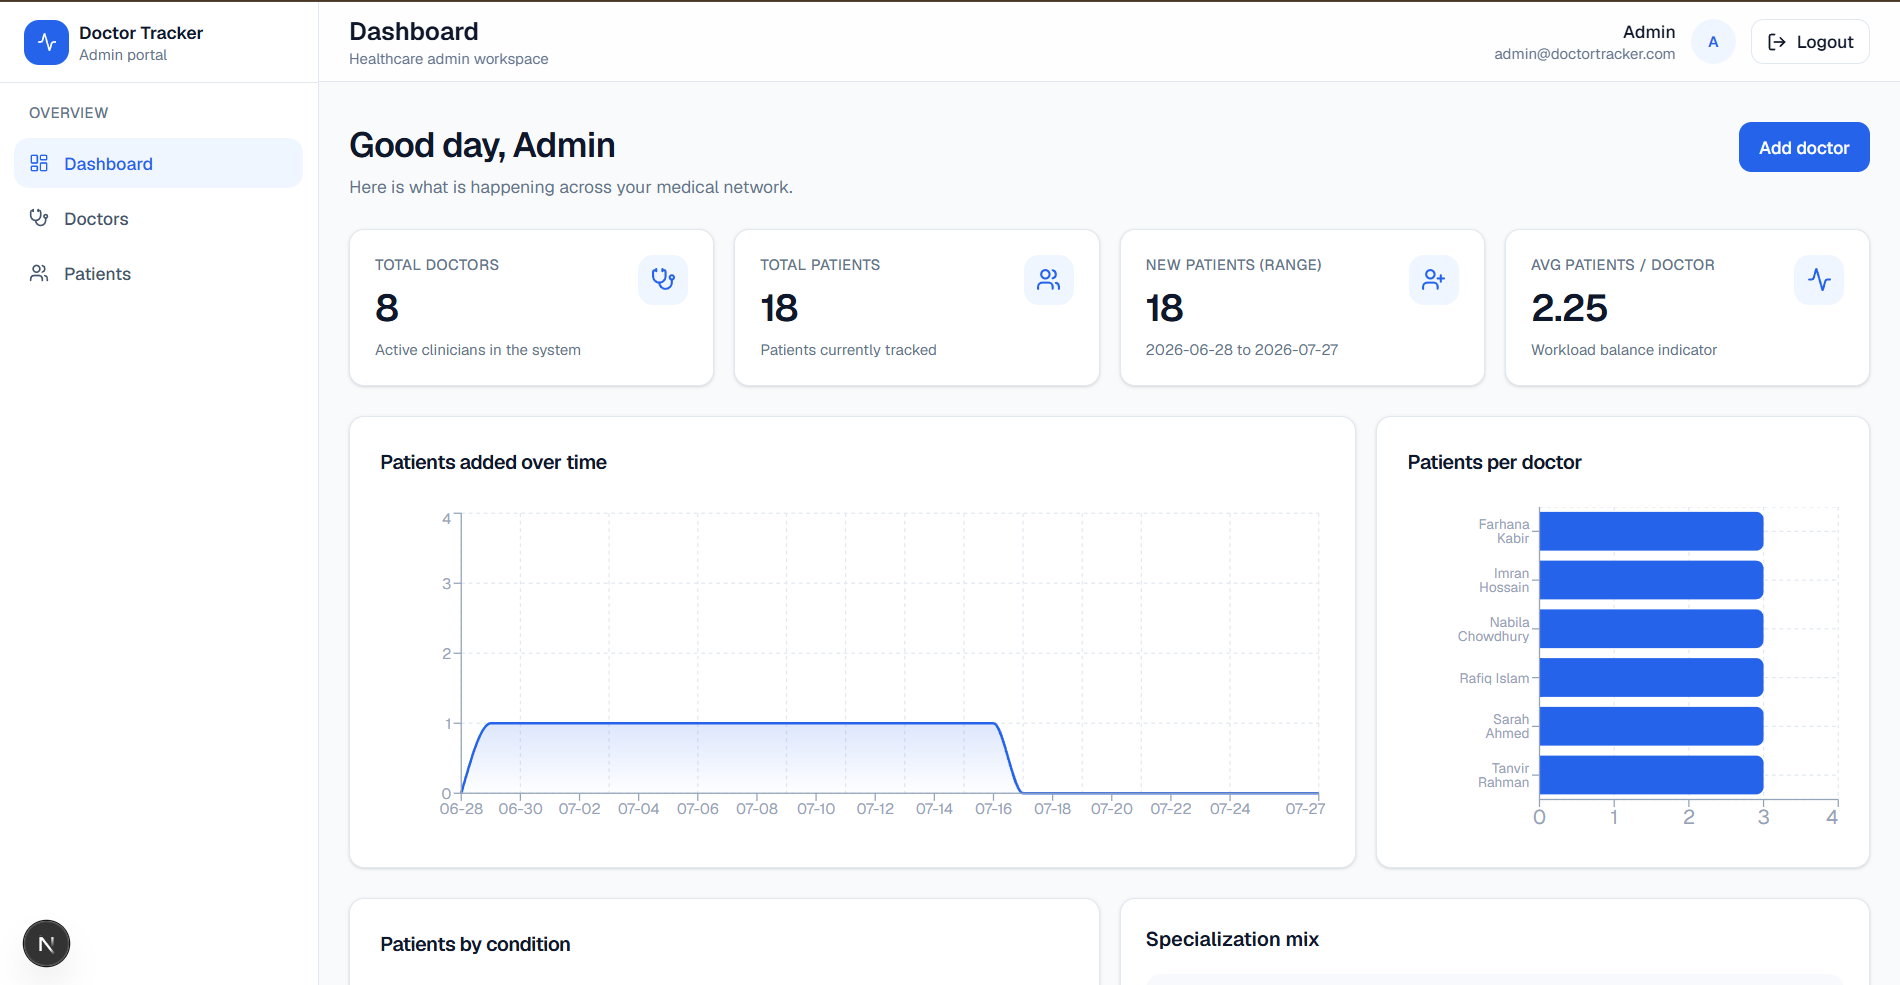
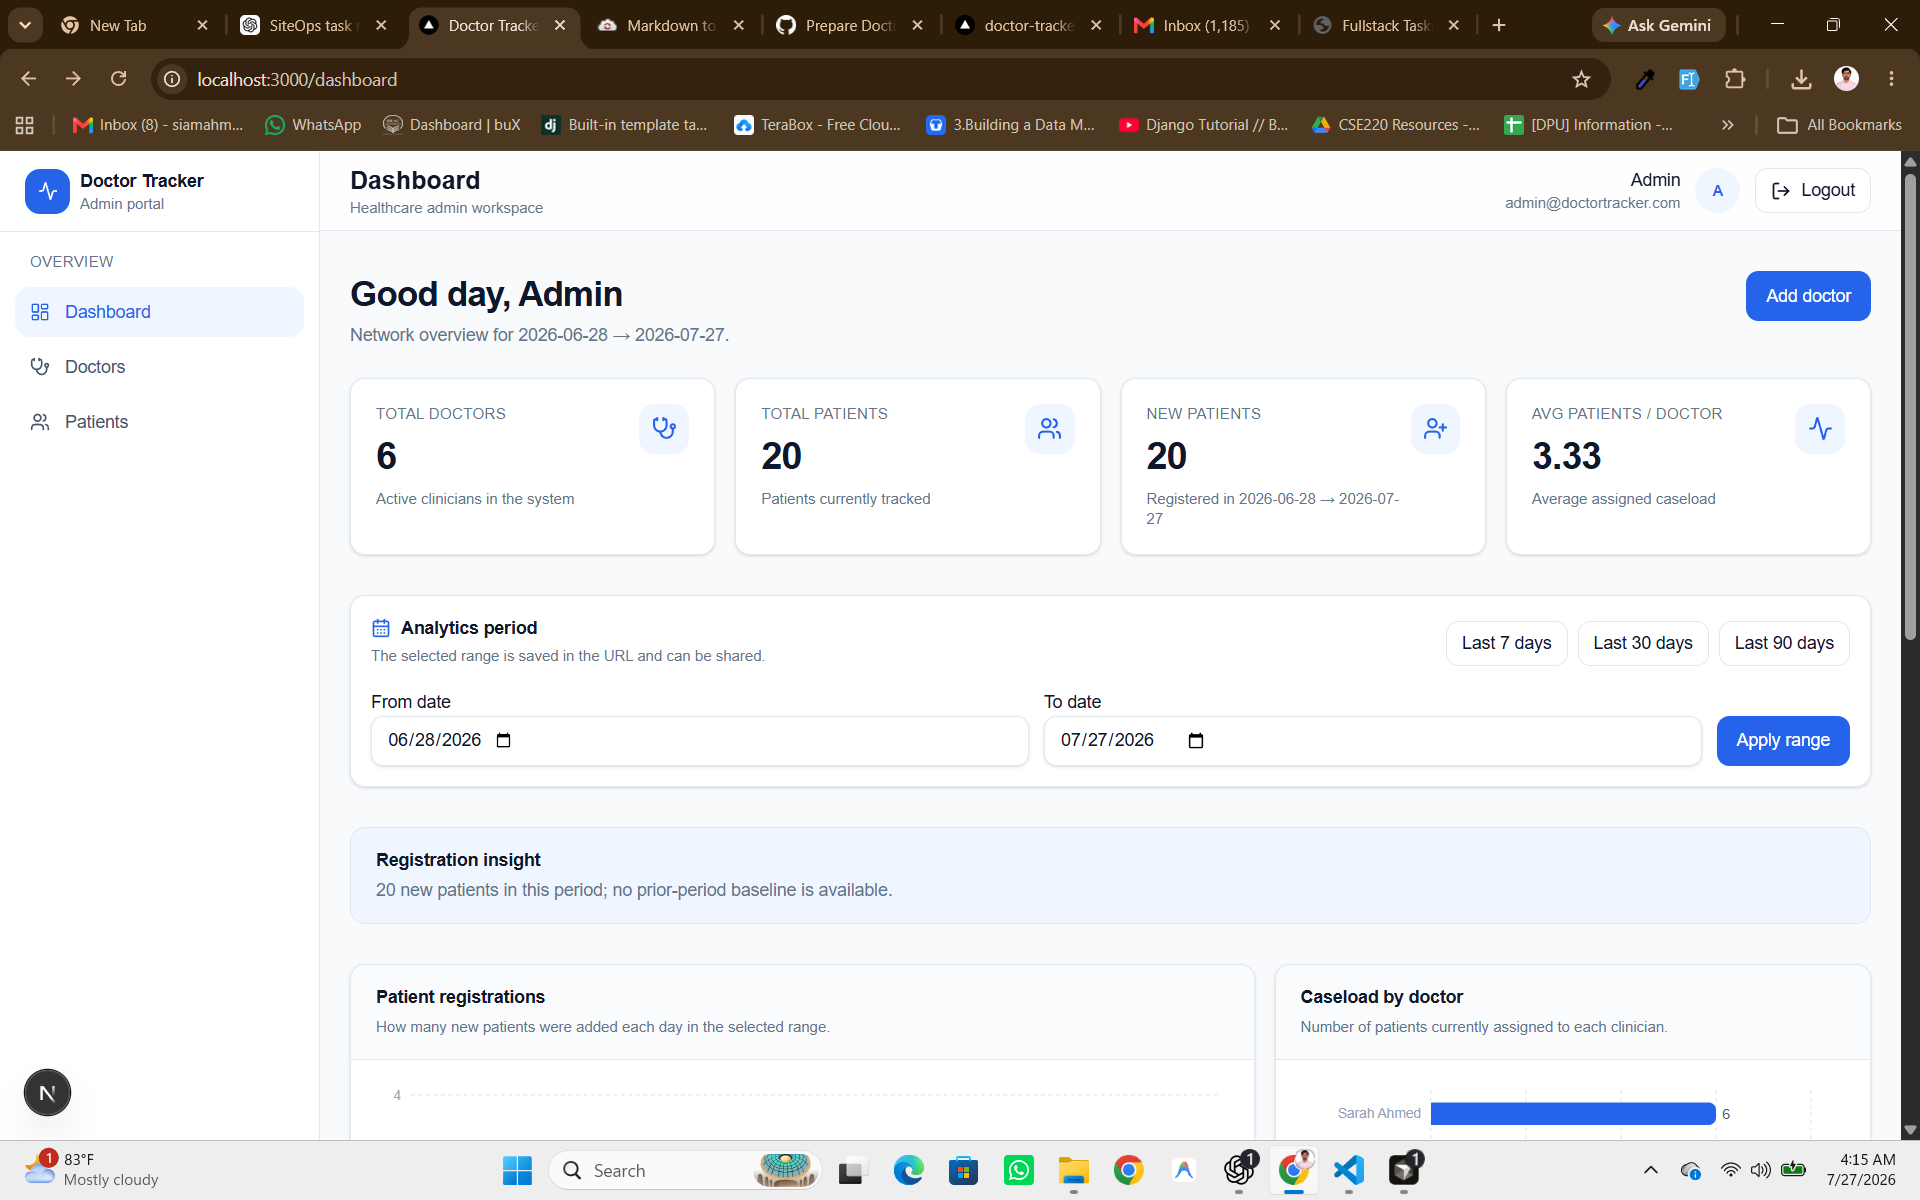
Fixed the query-optimization mismatch by aligning production filters with indexed equality

diff --git a/scripts/query-report.ts b/scripts/query-report.ts
@@ -2,6 +2,7 @@ import dotenv from "dotenv";
 import mongoose from "mongoose";
 import { DoctorModel } from "../src/server/features/doctors/doctor.model";
 import { PatientModel } from "../src/server/features/patients/patient.model";
+import { normalizeFilterValue } from "../src/server/shared/lib/text-match";
 
 dotenv.config({ path: ".env.local" });
 
@@ -30,6 +31,12 @@ async function printReport(label: string, explain: Promise<unknown>) {
   );
 }
 
+/**
+ * Explains the same filter shapes used in production list services:
+ * - specialization / hospital / condition → normalizeFilterValue + equality
+ * - search → $text
+ * - doctor patients → doctor ObjectId + createdAt sort
+ */
 async function reportQueries() {
   const uri = process.env.MONGODB_URI;
   if (!uri) throw new Error("MONGODB_URI is required.");
@@ -37,14 +44,22 @@ async function reportQueries() {
   await mongoose.connect(uri);
   const doctor = await DoctorModel.collection.findOne({});
 
+  // Same transforms as DoctorService.list / PatientService.list
+  const specializationFilter = {
+    specialization: normalizeFilterValue("Cardiology"),
+  };
+  const conditionFilter = {
+    condition: normalizeFilterValue("Diabetes"),
+  };
+
   await printReport(
     "Doctors: newest first",
     DoctorModel.collection.find({}).sort({ createdAt: -1 }).limit(20).explain("executionStats"),
   );
   await printReport(
-    "Doctors: specialization filter",
+    "Doctors: specialization filter (production equality)",
     DoctorModel.collection
-      .find({ specialization: "Cardiology" })
+      .find(specializationFilter)
       .sort({ createdAt: -1 })
       .limit(20)
       .explain("executionStats"),
@@ -57,9 +72,9 @@ async function reportQueries() {
       .explain("executionStats"),
   );
   await printReport(
-    "Patients: condition filter",
+    "Patients: condition filter (production equality)",
     PatientModel.collection
-      .find({ condition: "Diabetes" })
+      .find(conditionFilter)
       .sort({ createdAt: -1 })
       .limit(20)
       .explain("executionStats"),

diff --git a/src/server/features/doctors/doctor.service.ts b/src/server/features/doctors/doctor.service.ts
@@ -1,7 +1,7 @@
 import { AppError } from "../../shared/errors/app-error";
 import { buildCreatedAtFilter } from "../../shared/lib/date-range";
 import { buildPagination, getSkip } from "../../shared/lib/pagination";
-import { exactInsensitive } from "../../shared/lib/text-match";
+import { normalizeFilterValue } from "../../shared/lib/text-match";
 import { toPublicDoctor } from "./doctor.mapper";
 import { doctorRepository } from "./doctor.repository";
 import type {
@@ -17,7 +17,11 @@ export class DoctorService {
       throw new AppError("Doctor email already exists", 409);
     }
 
-    const doctor = await doctorRepository.create(input);
+    const doctor = await doctorRepository.create({
+      ...input,
+      specialization: normalizeFilterValue(input.specialization),
+      hospital: normalizeFilterValue(input.hospital),
+    });
     return toPublicDoctor(doctor);
   }
 
@@ -42,7 +46,15 @@ export class DoctorService {
       }
     }
 
-    const updated = await doctorRepository.updateById(id, input);
+    const payload = {
+      ...input,
+      ...(input.specialization
+        ? { specialization: normalizeFilterValue(input.specialization) }
+        : {}),
+      ...(input.hospital ? { hospital: normalizeFilterValue(input.hospital) } : {}),
+    };
+
+    const updated = await doctorRepository.updateById(id, payload);
     if (!updated) {
       throw new AppError("Doctor not found", 404);
     }
@@ -55,11 +67,11 @@ export class DoctorService {
     };
 
     if (query.specialization) {
-      filter.specialization = exactInsensitive(query.specialization);
+      filter.specialization = normalizeFilterValue(query.specialization);
     }
 
     if (query.hospital) {
-      filter.hospital = exactInsensitive(query.hospital);
+      filter.hospital = normalizeFilterValue(query.hospital);
     }
 
     const useTextScore = Boolean(query.search);

diff --git a/src/server/features/patients/patient.service.ts b/src/server/features/patients/patient.service.ts
@@ -1,7 +1,7 @@
 import { AppError } from "../../shared/errors/app-error";
 import { buildCreatedAtFilter } from "../../shared/lib/date-range";
 import { buildPagination, getSkip } from "../../shared/lib/pagination";
-import { exactInsensitive } from "../../shared/lib/text-match";
+import { normalizeFilterValue } from "../../shared/lib/text-match";
 import { doctorRepository } from "../doctors/doctor.repository";
 import { toPublicPatient, toPublicPatientWithDoctor } from "./patient.mapper";
 import { patientRepository } from "./patient.repository";
@@ -25,6 +25,7 @@ export class PatientService {
 
     const patient = await patientRepository.create({
       ...input,
+      condition: normalizeFilterValue(input.condition),
       doctor: doctorId,
     });
 
@@ -71,7 +72,7 @@ export class PatientService {
     }
 
     if (query.condition) {
-      filter.condition = exactInsensitive(query.condition);
+      filter.condition = normalizeFilterValue(query.condition);
     }
 
     const useTextScore = Boolean(query.search);
@@ -101,6 +102,9 @@ export class PatientService {
 
     const { doctorId, ...fields } = input;
     const updateData: Record<string, unknown> = { ...fields };
+    if (typeof fields.condition === "string") {
+      updateData.condition = normalizeFilterValue(fields.condition);
+    }
 
     if (doctorId) {
       await this.assertDoctorExists(doctorId);

diff --git a/src/server/features/patients/patient.mapper.ts b/src/server/features/patients/patient.mapper.ts
@@ -1,3 +1,4 @@
+import { toDisplayLabel } from "../../shared/lib/display-label";
 import type { PatientDocument } from "./patient.model";
 
 type PopulatedDoctorRef = {
@@ -18,7 +19,7 @@ export function toPublicPatient(patient: PatientDocument) {
     age: patient.age ?? null,
     phone: patient.phone,
     email: patient.email ?? null,
-    condition: patient.condition,
+    condition: toDisplayLabel(patient.condition),
     doctorId: patient.doctor.toString(),
     createdAt: patient.createdAt,
     updatedAt: patient.updatedAt,
@@ -32,12 +33,12 @@ export function toPublicPatientWithDoctor(patient: PatientWithPopulatedDoctor) {
     age: patient.age ?? null,
     phone: patient.phone,
     email: patient.email ?? null,
-    condition: patient.condition,
+    condition: toDisplayLabel(patient.condition),
     doctor: {
       id: patient.doctor._id.toString(),
       name: patient.doctor.name,
-      specialization: patient.doctor.specialization,
-      hospital: patient.doctor.hospital,
+      specialization: toDisplayLabel(patient.doctor.specialization),
+      hospital: toDisplayLabel(patient.doctor.hospital),
     },
     createdAt: patient.createdAt,
     updatedAt: patient.updatedAt,

diff --git a/src/server/features/dashboard/dashboard.service.ts b/src/server/features/dashboard/dashboard.service.ts
@@ -1,5 +1,6 @@
 import { env } from "../../config/env";
 import { resolveInclusiveRange } from "../../shared/lib/date-range";
+import { toDisplayLabel } from "../../shared/lib/display-label";
 import { fillDailySeries } from "../../shared/lib/fill-date-series";
 import { DoctorModel } from "../doctors/doctor.model";
 import { PatientModel } from "../patients/patient.model";
@@ -84,8 +85,14 @@ export class DashboardService {
               ),
       },
       patientsPerDoctor,
-      doctorsBySpecialization,
-      patientsByCondition,
+      doctorsBySpecialization: doctorsBySpecialization.map((item) => ({
+        ...item,
+        specialization: toDisplayLabel(item.specialization),
+      })),
+      patientsByCondition: patientsByCondition.map((item) => ({
+        ...item,
+        condition: toDisplayLabel(item.condition),
+      })),
       trends: {
         doctors: doctorTrend,
         patients: patientTrend,

diff --git a/src/server/shared/lib/text-match.ts b/src/server/shared/lib/text-match.ts
@@ -1,13 +1,4 @@
-export function escapeRegex(value: string): string {
-  return value.replace(/[.*+?^${}()|[\]\\]/g, "\\$&");
-}
-
-/** Case-insensitive substring match, for free-text search fields. */
-export function containsInsensitive(value: string): RegExp {
-  return new RegExp(escapeRegex(value), "i");
-}
-
-/** Case-insensitive exact match, for dropdown-style filters. */
-export function exactInsensitive(value: string): RegExp {
-  return new RegExp(`^${escapeRegex(value)}$`, "i");
+/** Normalize dropdown-style filters so equality can use indexes. */
+export function normalizeFilterValue(value: string): string {
+  return value.trim().toLowerCase();
 }

diff --git a/src/server/features/doctors/doctor.mapper.ts b/src/server/features/doctors/doctor.mapper.ts
@@ -1,11 +1,12 @@
+import { toDisplayLabel } from "../../shared/lib/display-label";
 import type { DoctorDocument } from "./doctor.model";
 
 export function toPublicDoctor(doctor: DoctorDocument) {
   return {
     id: doctor._id.toString(),
     name: doctor.name,
-    specialization: doctor.specialization,
-    hospital: doctor.hospital,
+    specialization: toDisplayLabel(doctor.specialization),
+    hospital: toDisplayLabel(doctor.hospital),
     phone: doctor.phone,
     email: doctor.email,
     createdAt: doctor.createdAt,

diff --git a/src/server/features/doctors/doctor.model.ts b/src/server/features/doctors/doctor.model.ts
@@ -19,12 +19,14 @@ const doctorSchema = new Schema(
       type: String,
       required: true,
       trim: true,
+      lowercase: true,
       maxlength: 80,
     },
     hospital: {
       type: String,
       required: true,
       trim: true,
+      lowercase: true,
       maxlength: 120,
     },
     phone: {

diff --git a/src/server/shared/lib/display-label.ts b/src/server/shared/lib/display-label.ts
@@ -1,0 +1,8 @@
+/** Restore readable labels for values stored in lowercase. */
+export function toDisplayLabel(value: string): string {
+  return value
+    .split(/\s+/)
+    .filter(Boolean)
+    .map((part) => part.charAt(0).toUpperCase() + part.slice(1))
+    .join(" ");
+}

diff --git a/src/server/features/patients/patient.model.ts b/src/server/features/patients/patient.model.ts
@@ -36,6 +36,7 @@ const patientSchema = new Schema(
       type: String,
       required: true,
       trim: true,
+      lowercase: true,
       maxlength: 120,
     },
     doctor: {

diff --git a/docs/query-performance.md b/docs/query-performance.md
@@ -3,17 +3,30 @@
 This report was generated locally with:
 
 ```bash
+npm run seed:demo
 npm run report:queries
 ```
+
+`report:queries` explains the **same filter shapes** used in production list services (`DoctorService.list` / `PatientService.list`):
+
+- Filterable string fields (`specialization`, `hospital`, `condition`) are stored lowercase and queried with equality after `normalizeFilterValue()` — not case-insensitive `$regex`.
+- Text uses `$text` against the doctor text index.
+- Nested patients use the `doctor` + `createdAt` compound index.
 
 The sample dataset contained 6 doctors and 20 patients. These figures establish index usage, not production-scale throughput; rerun the command after loading a larger representative dataset for deployment capacity planning.
 
 | Query | Winning index | Documents examined | Keys examined | Returned | Execution time |
 | --- | --- | ---: | ---: | ---: | ---: |
-| Doctors ordered by newest | `createdAt_-1` | 6 | 6 | 6 | 1 ms |
-| Doctors filtered by specialization | `specialization_1_createdAt_-1` | 2 | 2 | 2 | 2 ms |
-| Doctor text search | `doctor_text_search` | 2 | 2 | 2 | 1 ms |
-| Patients filtered by condition | `condition_1_createdAt_-1` | 4 | 4 | 4 | 2 ms |
-| Patients for a doctor | `doctor_1_createdAt_-1` | 6 | 6 | 6 | 2 ms |
+| Doctors ordered by newest | `createdAt_-1` | 6 | 6 | 6 | 0 ms |
+| Doctors filtered by specialization (equality) | `specialization_1_createdAt_-1` | 2 | 2 | 2 | 0 ms |
+| Doctor text search | `doctor_text_search` | 2 | 2 | 2 | 0 ms |
+| Patients filtered by condition (equality) | `condition_1_createdAt_-1` | 4 | 4 | 4 | 0 ms |
+| Patients for a doctor | `doctor_1_createdAt_-1` | 6 | 6 | 6 | 0 ms |
 
 The `IXSCAN` and `TEXT_MATCH` winning plans show that the expected indexes are selected for the key list, filter, relationship, and search paths. On this sample, examined keys and documents remain close to returned results.
+
+After pulling these changes, reseed once so existing title-case filter values are rewritten lowercase:
+
+```bash
+npm run seed:demo
+```
